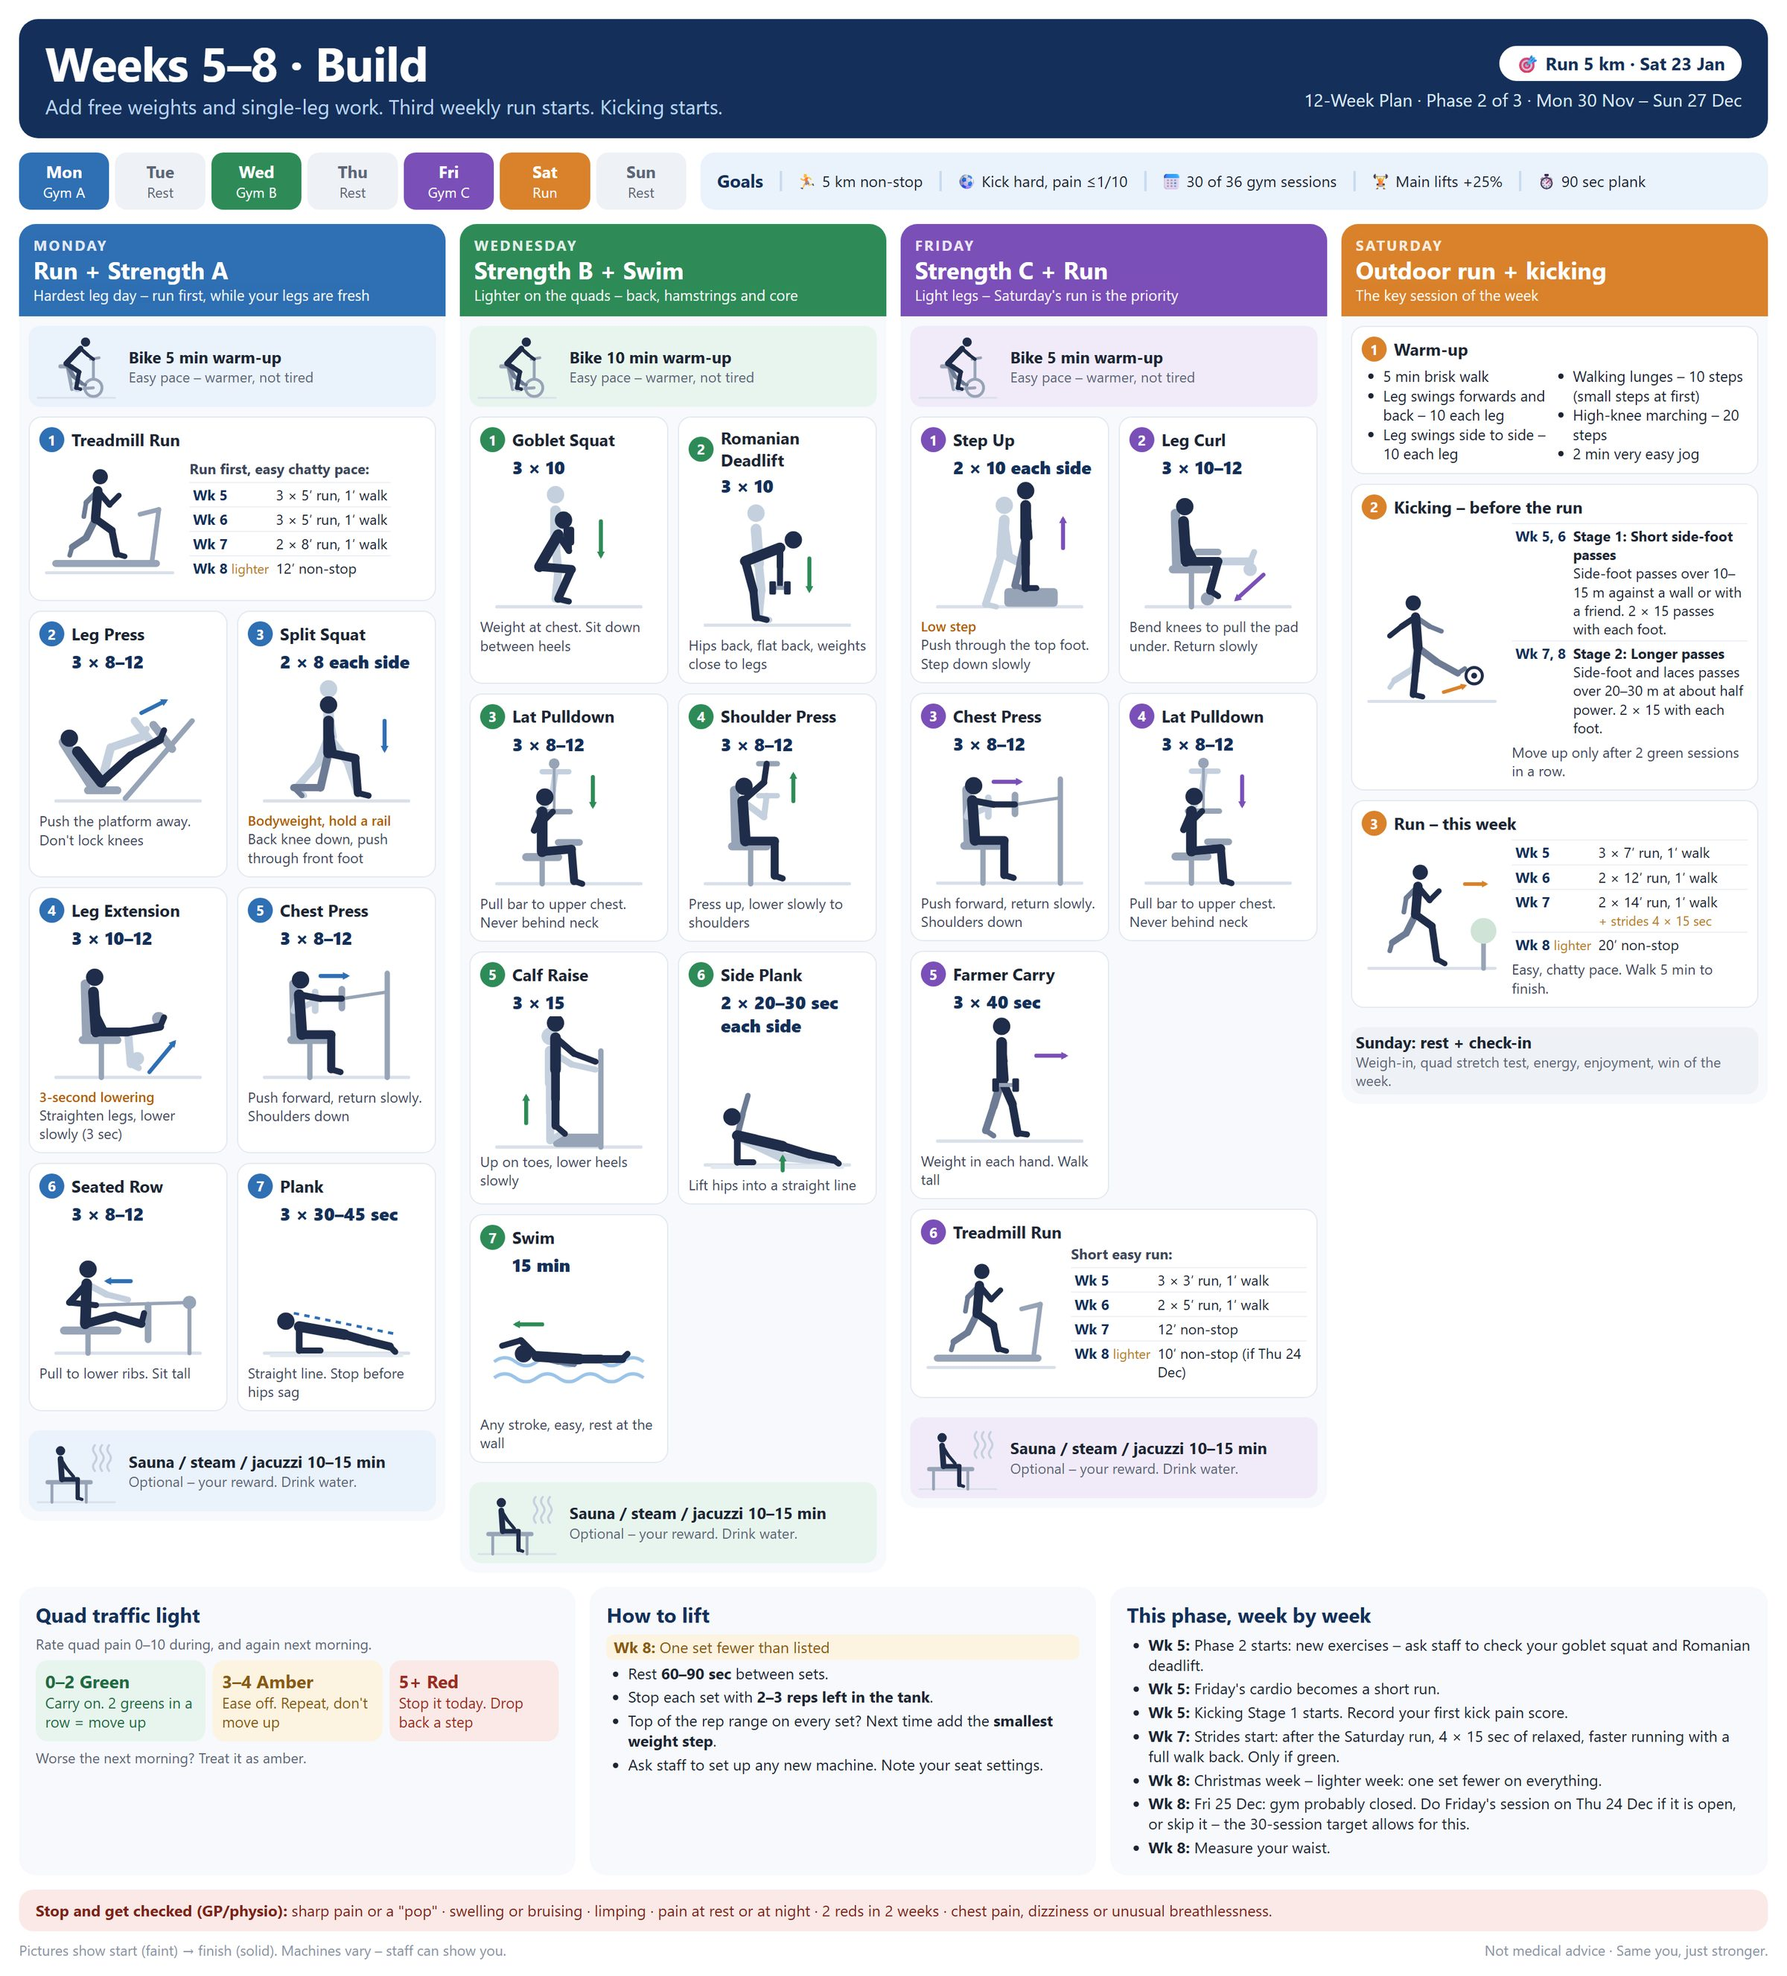
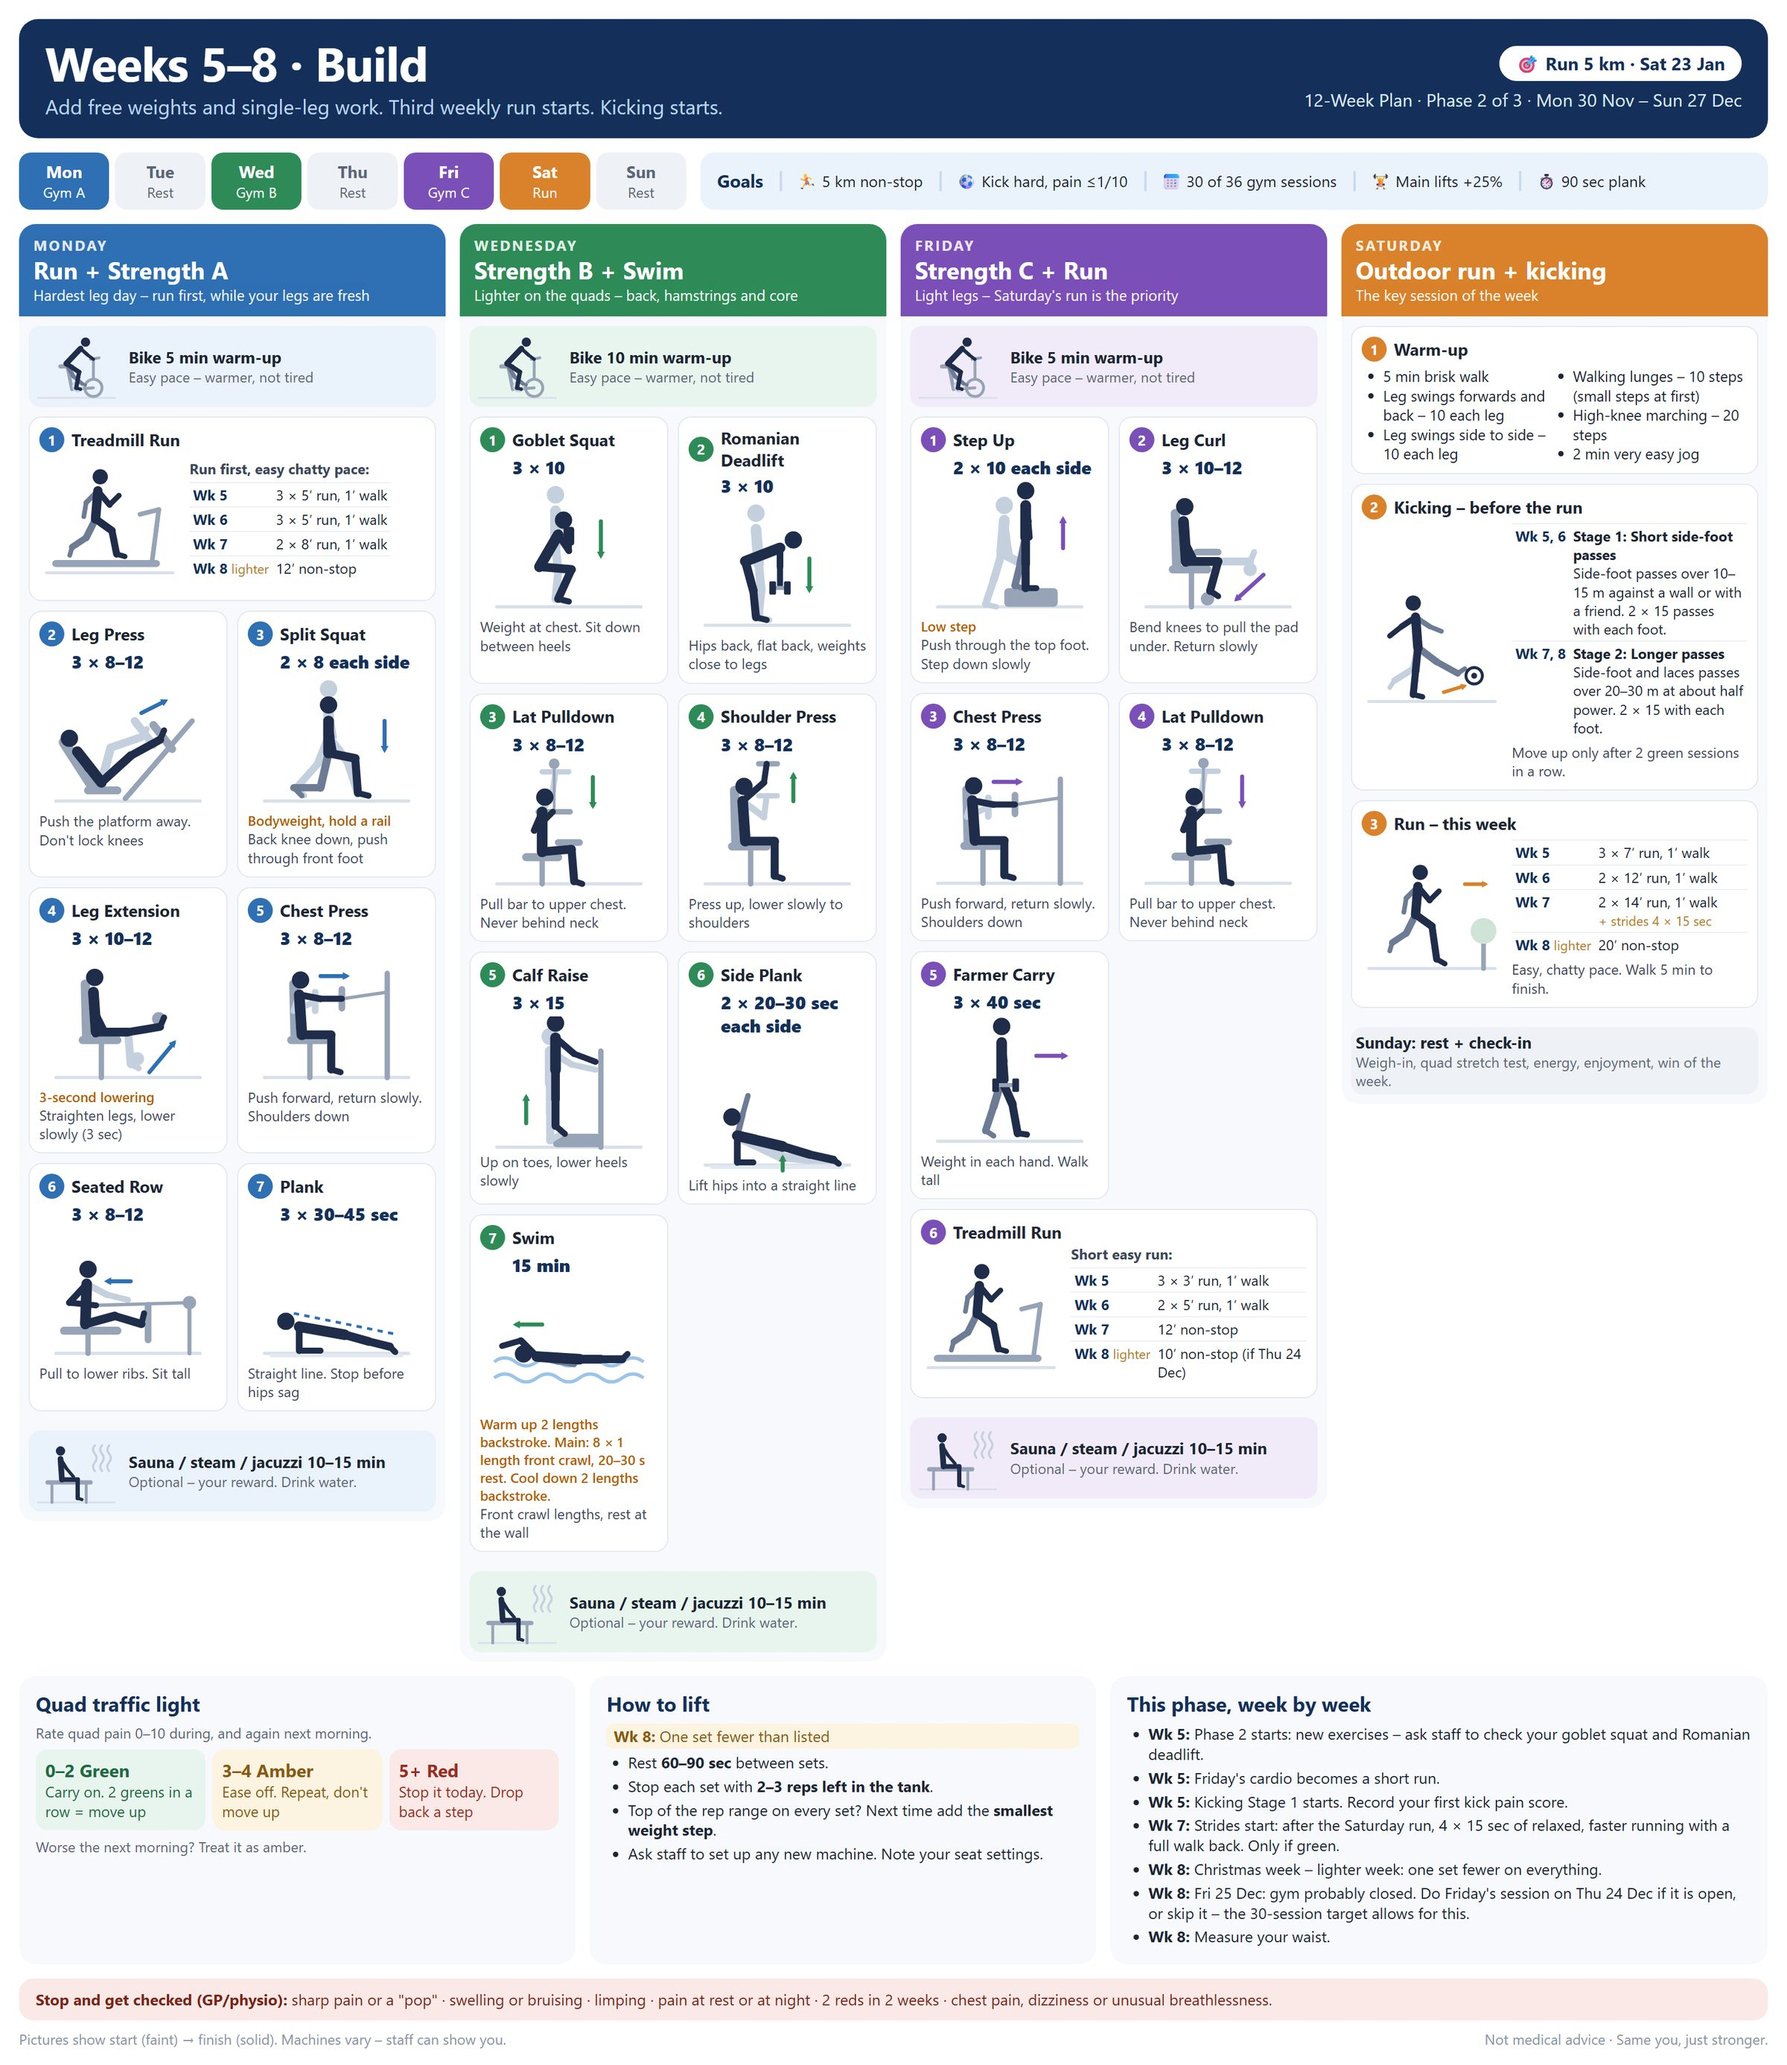
Start sets at last time's weight, reps-only bodyweight moves, structured swim
- Each set starts at last time's heaviest weight (same weekday first;
  Friday's lighter leg press isn't copied from Monday). Reps stay blank,
  and a pre-filled weight alone never counts as a done set.
- Bodyweight exercises log reps only, with "+ Add weight" if needed.
- Wednesday swim: backstroke warm-up, front crawl main set by phase,
  backstroke cool-down. Plan data and phase pictures regenerated.

diff --git a/js/workout.js b/js/workout.js
@@ -12,6 +12,9 @@ const REST_DEFAULT = 90;
 
 export const gymId = (plannedDate) => `gym-${plannedDate}`;
 
+// "bodyweight" exercises log reps only (kg can be added); the plan can override per session (e.g. "weights").
+const loadOf = (item) => item.load ?? getPlan().exercises[item.exercise]?.load ?? "weights";
+
 function newItem(it) {
   const type = CARDIO.has(it.exercise) ? "cardio" : TIMED.has(it.exercise) ? "timed" : "strength";
   const planned = { sets: it.sets ?? null, reps: it.reps ?? null, seconds: it.seconds ?? null,
@@ -19,7 +22,26 @@ function newItem(it) {
     run: it.run ?? null, dose: doseText(it) };
   const minutes = type === "cardio" ? (it.run ? it.run.run_total_min : parseInt(it.minutes, 10) || null) : null;
   const sets = type === "cardio" ? [] : Array.from({ length: it.sets || 1 }, () => ({ kg: null, reps: null, seconds: null, done: false }));
-  return { exercise: it.exercise, type, planned, sets, minutes, status: "todo", rir: null, pain: null, note: "", setting: "" };
+  return { exercise: it.exercise, type, load: loadOf(it), planned, sets, minutes, status: "todo", rir: null, pain: null, note: "", setting: "" };
+}
+
+// Heaviest weight lifted in a past record of an exercise, or null.
+function heaviest(rec) {
+  const kgs = (rec?.sets ?? []).filter((x) => x.done && x.kg != null).map((x) => x.kg);
+  return kgs.length ? Math.max(...kgs) : null;
+}
+
+// Start each set at last time's working weight, so it isn't done from memory. Prefer the same day's session
+// (Friday's leg press is lighter than Monday's); with no same-day record, skip items the plan marks lighter.
+async function prefillWeights(s) {
+  const { sameDay, any } = await lastTimes(s.date, s.dayKey);
+  for (const item of s.items) {
+    if (item.type !== "strength") continue;
+    const kg = heaviest(sameDay[item.exercise]) ?? (/lighter/i.test(item.planned.note ?? "") ? null : heaviest(any[item.exercise]));
+    if (kg == null || (item.load === "bodyweight" && kg <= 0)) continue;
+    for (const st of item.sets) st.kg = kg;
+    if (item.load === "bodyweight") item.addKg = true;
+  }
 }
 
 export async function getOrCreateSession(week, dayKey, plannedDate, performedOn) {
@@ -30,22 +52,25 @@ export async function getOrCreateSession(week, dayKey, plannedDate, performedOn)
   const s = { id, kind: "gym", date: plannedDate, performedOn, week, dayKey, title: plan.title,
     status: "in_progress", startedAt: Date.now(), items: plan.items.map(newItem) };
   for (const item of s.items) item.setting = (await db.getSetting(`setting:${item.exercise}`, "")) || "";
+  await prefillWeights(s);
   await db.put("sessions", s);
   return s;
 }
 
-// Most recent finished record of an exercise (from an earlier session).
-async function lastTimes(beforeDate) {
+// Most recent finished record of each exercise (from an earlier session): from any day, and from the same weekday slot.
+async function lastTimes(beforeDate, dayKey) {
   const sessions = (await db.all("sessions"))
     .filter((s) => s.kind === "gym" && s.status === "finished" && s.date < beforeDate)
     .sort((a, b) => (a.date < b.date ? 1 : -1));
-  const last = {};
+  const any = {}, sameDay = {};
   for (const s of sessions) {
     for (const it of s.items) {
-      if (!last[it.exercise] && it.status !== "skipped" && it.sets.some((x) => x.done)) last[it.exercise] = { ...it, date: s.date };
+      if (it.status === "skipped" || !it.sets.some((x) => x.done)) continue;
+      if (!any[it.exercise]) any[it.exercise] = { ...it, date: s.date };
+      if (s.dayKey === dayKey && !sameDay[it.exercise]) sameDay[it.exercise] = { ...it, date: s.date };
     }
   }
-  return last;
+  return { any, sameDay };
 }
 
 function topOfRange(reps) {
@@ -57,8 +82,10 @@ function lastLine(last, type) {
   if (!last) return "";
   const done = last.sets.filter((x) => x.done);
   if (type === "timed") return `Last time: ${done.map((x) => `${x.seconds ?? "–"}s`).join(", ")}`;
+  const reps = done.map((x) => x.reps ?? "–").join(", ");
+  if (!done.some((x) => x.kg > 0)) return `Last time: ${reps} reps`;
   const kgs = [...new Set(done.map((x) => x.kg ?? "–"))];
-  return `Last time: ${kgs.join("/")} kg × ${done.map((x) => x.reps ?? "–").join(", ")}`;
+  return `Last time: ${kgs.join("/")} kg × ${reps}`;
 }
 
 function progressionHint(last, item) {
@@ -81,7 +108,8 @@ export function createWorkoutView({ $screen, $tabs, onExit, onRun }) {
 
   async function start(session) {
     S = session;
-    last = await lastTimes(S.date);
+    const lt = await lastTimes(S.date, S.dayKey);
+    last = { ...lt.any, ...lt.sameDay };  // the same weekday's record wins (Friday's leg press is lighter)
     open = pendingOpen ?? S.items.findIndex((i) => i.status === "todo");
     pendingOpen = null;
     if (open < 0) open = null;
@@ -131,15 +159,20 @@ export function createWorkoutView({ $screen, $tabs, onExit, onRun }) {
       return `<div class="setrow"><span>${label}</span>
         <input class="in" inputmode="decimal" data-field="minutes" data-i="${i}" value="${item.minutes ?? ""}" aria-label="${label}"></div>`;
     }
-    return item.sets.map((st, j) => {
+    // Bodyweight moves log reps only, unless a weight is added (or was logged before).
+    const kgBox = item.type === "strength" && (loadOf(item) !== "bodyweight" || item.addKg || item.sets.some((x) => x.kg > 0));
+    const rows = item.sets.map((st, j) => {
       const fields = item.type === "timed"
         ? `<input class="in" inputmode="numeric" data-field="seconds" data-i="${i}" data-j="${j}" value="${st.seconds ?? ""}" placeholder="sec" aria-label="Set ${j + 1} seconds">
            <button type="button" class="sw" data-act="stopwatch" data-i="${i}" data-j="${j}">${stopwatch && stopwatch.i === i && stopwatch.j === j ? "Stop" : "⏱"}</button>`
-        : `<input class="in" inputmode="decimal" data-field="kg" data-i="${i}" data-j="${j}" value="${st.kg ?? ""}" placeholder="kg" aria-label="Set ${j + 1} kg">
+        : `${kgBox ? `<input class="in" inputmode="decimal" data-field="kg" data-i="${i}" data-j="${j}" value="${st.kg ?? ""}" placeholder="kg" aria-label="Set ${j + 1} kg">` : ""}
            <input class="in" inputmode="numeric" data-field="reps" data-i="${i}" data-j="${j}" value="${st.reps ?? ""}" placeholder="${esc(String(item.planned.reps ?? "reps"))}" aria-label="Set ${j + 1} reps">`;
       return `<div class="setrow ${st.done ? "done" : ""}"><span>Set ${j + 1}</span>${fields}
         <button type="button" class="tickbtn" data-act="tick" data-i="${i}" data-j="${j}" aria-label="Set ${j + 1} done" aria-pressed="${st.done}">${st.done ? "✓" : "○"}</button></div>`;
     }).join("");
+    const addKg = item.type === "strength" && !kgBox
+      ? `<button type="button" class="linkbtn" data-act="addkg" data-i="${i}">+ Add weight (holding a dumbbell?)</button>` : "";
+    return rows + addKg;
   }
 
   function card(item, i) {
@@ -294,11 +327,12 @@ export function createWorkoutView({ $screen, $tabs, onExit, onRun }) {
         }
         break;
       }
+      case "addkg": item.addKg = true; break;
       case "rir": item.rir = item.rir === b.dataset.v ? null : b.dataset.v; break;
       case "pain": item.pain = item.pain === Number(b.dataset.v) ? null : Number(b.dataset.v); break;
       case "done":
         item.status = "done";
-        if (item.type !== "cardio") for (const st of item.sets) if (st.kg != null || st.reps != null || st.seconds != null) st.done = true;
+        if (item.type !== "cardio") for (const st of item.sets) if (st.reps != null || st.seconds != null) st.done = true;
         open = S.items.findIndex((x, k) => k > i && x.status === "todo");
         if (open < 0) open = null;
         break;

diff --git a/sw.js b/sw.js
@@ -1,6 +1,6 @@
 // Offline support: cache the app files on first load, serve them from the cache afterwards.
 // Bump VERSION whenever any file below changes so phones pick up the update.
-const VERSION = "gymplan-v11";
+const VERSION = "gymplan-v12";
 const FILES = [
   "./", "index.html", "manifest.webmanifest", "css/app.css",
   "js/app.js", "js/db.js", "js/plan.js", "js/ui.js", "js/beep.js", "js/workout.js",
